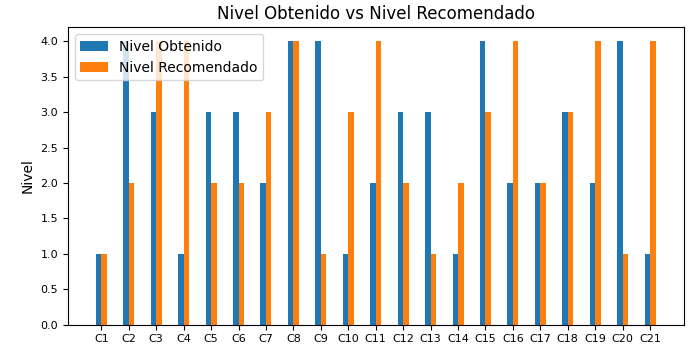
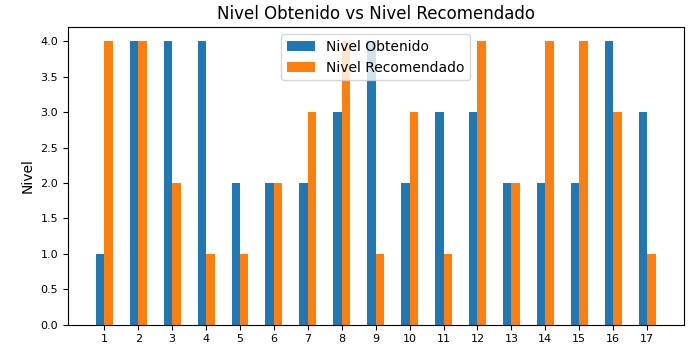
Actualizacion con graficas en informe

diff --git a/proyTesis/appWeb/templates/cuestionario/base.html b/proyTesis/appWeb/templates/cuestionario/base.html
@@ -227,8 +227,15 @@
             </div>
             <br><br>
             {% if id %}
-            <a href="{% url 'pdf_report'  id %}" class="btn btn-primary waves-effect waves-light"><i
+            <form action="" method="POST" accept-charset="utf-8">
+                {%csrf_token%}
+                <button type="submit" class="btn btn-primary waves-effect waves-light" value="{{id}}" name="submit_btn">
+                    <i
                     class="mdi mdi-printer mr-1"></i> DESCARGAR INFORME</a>
+                </button>
+            </form>
+<!--            <a href="{% url 'pdf_report'  id %}" class="btn btn-primary waves-effect waves-light"><i
+                    class="mdi mdi-printer mr-1"></i> DESCARGAR INFORME</a>-->
             {% endif %}
             <br><br>
             <!-- end row -->

diff --git a/proyTesis/appWeb/cuestionario.py b/proyTesis/appWeb/cuestionario.py
@@ -10,7 +10,9 @@ from django.http import JsonResponse, HttpResponse
 from django.shortcuts import redirect, render, render, reverse
 from django.template.loader import render_to_string
 from django.views.generic import TemplateView, View, DetailView
-
+import matplotlib.pyplot as plt
+import numpy as np
+from matplotlib import pyplot as plt
 # Local apps
 from django_weasyprint import WeasyTemplateResponse, WeasyTemplateResponseMixin
 from django_weasyprint.utils import django_url_fetcher
@@ -308,6 +310,13 @@ def pregunta_ajax(request, id_preguntas, cuestionario, tipo):
 
 from django.db.models import F, Func, OuterRef, Subquery, Avg, Count, Min, Sum
 from django.db.models.functions import Round
+from django.http import HttpResponseRedirect
+
+def redirect_user_to_pdf(request):
+    if request.method == "POST":
+        value = 9
+        return HttpResponseRedirect('/pdf/report/9/')
+
 
 
 def repuestas_usuario(request, **kwargs):
@@ -408,6 +417,7 @@ def repuestas_usuario(request, **kwargs):
         "resul_recomendado": Rrecomendado,
         "resul_area": Rarea,
     }
+
     return render(request, "cuestionario/base.html", ctx)
 
 
@@ -460,7 +470,13 @@ def repuestas_usuario_historico(request, **kwargs):
             .values("competencia", "ide", "sumatoria", "area", "recomendado")
     )
     list, Rarea = [], []
+    counter_rpst = 0
+    labels = []
+    sumatoria = []
+    recomendado_graph = []
     for value in rpst:
+        counter_rpst += 1
+        labels.append("C"+str(counter_rpst))
         ar = (
             query.filter(id_pregunta__id_competencia__id_competencia=value["ide"])
                 .values("id_usr")
@@ -481,6 +497,8 @@ def repuestas_usuario_historico(request, **kwargs):
                     text = recomendaciones.first().contenido
             else:
                 text = "Alcanzo el nivel maximo en esta competencia"
+            sumatoria.append(int(value["sumatoria"]))
+            recomendado_graph.append(int(value["recomendado"]))
             list.append(
                 {
                     "competencia": value["competencia"],
@@ -507,6 +525,37 @@ def repuestas_usuario_historico(request, **kwargs):
         "resul_area": Rarea,
         "id": id_historico
     }
+    if request.method == "POST":
+        print(sumatoria)
+        print(recomendado_graph)
+        labels = [1, 2, 3, 4, 5, 6, 7, 8, 9, 10, 11, 12, 13, 14, 15, 16, 17] 
+        men_means = sumatoria
+        women_means = recomendado_graph
+
+        x = np.arange(len(labels))  # the label locations
+        width = 0.25  # the width of the bars
+
+        fig, ax = plt.subplots()
+        rects1 = ax.bar(x - width/2, men_means, width, label='Nivel Obtenido')
+        rects2 = ax.bar(x + width/2, women_means, width, label='Nivel Recomendado')
+
+        # Add some text for labels, title and custom x-axis tick labels, etc.
+        ax.set_ylabel('Nivel')
+        ax.set_title('Nivel Obtenido vs Nivel Recomendado')
+        ax.set_xticks(x)
+        ax.set_xticklabels(labels)
+        ax.legend()
+        plt.tick_params(labelsize=8)
+
+        fig.tight_layout()
+
+        #plt.show()
+        fig.set_figheight(3.5)
+        fig.set_figwidth(7)
+        plt.savefig('C:/Users/dapat/Dropbox/proyActualizado/tesisnuevo/proyTesis/static/graphimages/saved_figure.png')
+        pdf_id = request.POST.get("submit_btn")
+        return redirect('pdf_report', pk=pdf_id)
+
     return render(request, "cuestionario/base.html", ctx)
 
 

diff --git a/proyTesis/appWeb/utils.py b/proyTesis/appWeb/utils.py
@@ -8,7 +8,7 @@ men_means = [1, 4, 3, 1, 3, 3, 2, 4, 4, 1, 2, 3, 3, 1, 4, 2, 2, 3, 2, 4, 1]
 women_means = [1, 2, 4, 4, 2, 2, 3, 4, 1, 3, 4, 2, 1, 2, 3, 4, 2, 3, 4, 1, 4]
 
 x = np.arange(len(labels))  # the label locations
-width = 0.2  # the width of the bars
+width = 0.25  # the width of the bars
 
 fig, ax = plt.subplots()
 rects1 = ax.bar(x - width/2, men_means, width, label='Nivel Obtenido')
